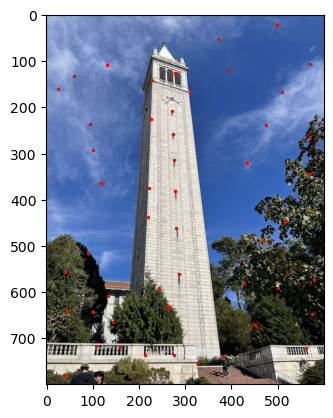
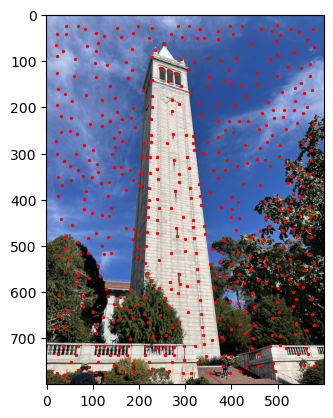
fixed width settings for image section

diff --git a/4/index.html b/4/index.html
@@ -42,6 +42,8 @@
         flex-wrap: wrap;
         gap: 20px;
         margin-top: 20px;
+        width: 90%;
+        height: auto;
       }
       .image-card {
         flex: 1;
@@ -421,7 +423,7 @@
                 This technique is detailed in section 3 of the MOPS paper. At a basically level we would like to have say <em>n</em> points that are relatively spread out and are highly interesting. 
                 The algorithm to give us exactly this result defines a supression radius which is the minimum distance to a another keypoint with a significantly stronger response strength, 
                 mathematically: \( r_i = \min_i \left| \vec{x_i} - \vec{x_j} \right| \quad \forall \vec{x_j} : h(\vec{x_i}) < c_{\text{robust}} h(\vec{x_j}) \). We compute this for every keypoint and then take the K highest points. 
-                Per the paper's recommendation I set \(c_{robust} = 0.9), but took only 200 points (the paper reccomends 500) because my images are smaller.
+                Per the paper's recommendation I set \(c_{robust} = 0.9\), and took 500 points.
             </p>
         </section>
         <section class="image-section">
@@ -447,7 +449,7 @@
             <p>
                 Now that we have have features extracted for images, we can match these features and find good pairs of corresponding points between two images. 
                 For this I used Lowe's thresholding as detailed in section 5 of MOPS. This technique is leveraged ont he idea that the NN-1(nearest neighbor) will be a significantly better match than the NN-2(second nearest neighbor); thus, we take a pair if the ratio of 1-NN / 2-NN is below some threshold. 
-                Figure 6b in MOPS indicates that a good threshold is 0.4 which I found to be much to harsh in my case. 
+                Figure 6b in MOPS indicates that a good threshold is 0.4 which I found to be much too harsh in my case. 
                 I found that it's best to test a few thresholds for the specific pair of images and to err on the side of allowing some bad matchings in and rely on the RANSAC algorithm to produce a good homography. 
             </p>
         </section>
